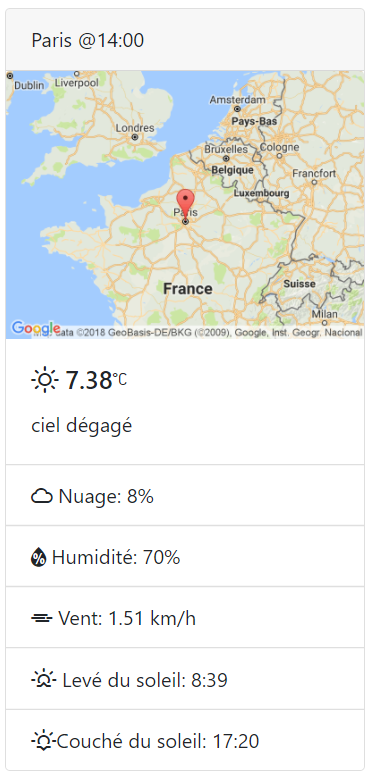
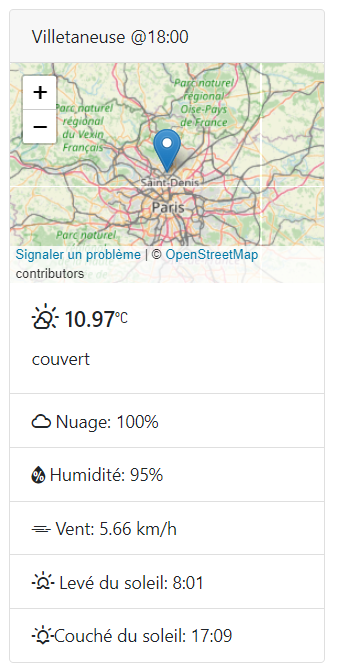
update tp 5 with open street map

diff --git a/tp5/readme.md b/tp5/readme.md
@@ -172,6 +172,68 @@ window.onload = function () {
         // A compléter dans la suite du TP
       },
     },
+    computed: {
+      cityWheaterDate: function () {
+        if (this.cityWeather !== null) {
+          var date = new Date(this.cityWeather.dt * 1000);
+
+          // ici l'operateur ternaire pour tester si les minutes sont < à 10
+          // pour y ajouter un 0
+          // 9 minutes deviendra 09
+          // 11 restera 11
+          var minutes =
+            date.getMinutes() < 10
+              ? "0" + date.getMinutes()
+              : date.getMinutes();
+          return date.getHours() + ":" + minutes;
+        } else {
+          return "";
+        }
+      },
+      cityWheaterSunrise: function () {
+        if (this.cityWeather !== null) {
+          var date = new Date(this.cityWeather.sys.sunrise * 1000);
+          var minutes =
+            date.getMinutes() < 10
+              ? "0" + date.getMinutes()
+              : date.getMinutes();
+          return date.getHours() + ":" + minutes;
+        } else {
+          return "";
+        }
+      },
+      cityWheaterSunset: function () {
+        if (this.cityWeather !== null) {
+          var date = new Date(this.cityWeather.sys.sunset * 1000);
+          var minutes =
+            date.getMinutes() < 10
+              ? "0" + date.getMinutes()
+              : date.getMinutes();
+          return date.getHours() + ":" + minutes;
+        } else {
+          return "";
+        }
+      },
+      // calcul de la zone d'affichage de la carte openstreetmap
+      openStreetMapArea: function () {
+        if (this.cityWeather !== null) {
+          // Définir un facteur d’échelle selon le zoom (plus zoomé → bbox plus petite)
+          const zoom = 8;
+          const delta = 0.05 / Math.pow(2, zoom - 10);
+
+          const bboxEdges = {
+            south: this.cityWeather.coord.lat - delta,
+            north: this.cityWeather.coord.lat + delta,
+            west: this.cityWeather.coord.lon - delta,
+            east: this.cityWeather.coord.lon + delta,
+          };
+
+          return `${bboxEdges.west}%2C${bboxEdges.south}%2C${bboxEdges.east}%2C${bboxEdges.north}`;
+        } else {
+          return "";
+        }
+      },
+    },
   });
 };
 ```
@@ -414,12 +476,17 @@ Carte météo
 
 <div v-if="cityWeather">
   <div class="card" style="width: 18rem;" v-if="cityWeather">
-    <div class="card-header">{{cityWeather.name}}</div>
-    <img
+    <div class="card-header">{{cityWeather.name}} @{{cityWheaterDate}}</div>
+    <iframe
       class="card-img-top"
-      v-bind:src="'url google map'"
       alt="Card image cap"
-    />
+      width="100%"
+      height="200"
+      frameborder="0"
+      scrolling="no"
+      v-bind:src="'url de l iframe Open street map'"
+    >
+    </iframe>
 
     <div class="card-body">
       <h5 class="card-title">
@@ -453,17 +520,17 @@ Carte météo
 </div>
 ```
 
-## 12. Affichage une image Google Map
+## 12. Affichage une iframe Open Street Map
 
-- Afficher une image en utilisant les coordonnées lattitude et longitude renvoyées par OpenWeathermap
+- Afficher une image en utilisant les coordonnées lattitude et longitude renvoyées par OpenWeathermap : https://www.openstreetmap.org/export
 
-  - Pattern de l'URL:
+  - Pattern de l'URL à utiliser dans l'iframe:
 
 ```
-https://maps.googleapis.com/maps/api/staticmap?markers='+LATITTUDE+','+LONGITUDE+'&zoom=5&size=400x300&scale=2&key=AIzaSyAkmvI9DazzG9p77IShsz_Di7-5Qn7zkcg'
+'https://www.openstreetmap.org/export/embed.html?bbox='+openStreetMapArea+'&layer=mapnik&marker='+cityWeather.coord.lat+'%2C'+cityWeather.coord.lon
 ```
 
-- Si l'image ne s'affiche pas, essayez en mettant une autre clé Google (key)
+`openStreetMapArea` est une méthode (dans votre code main.js) qui va calculer la zone sur laquelle OSM va zoomé pour monter la ville demandée.
 
 ## 13. Affichage des icones météo
 
@@ -502,6 +569,11 @@ Pour utiliser les icones, il suffit de connaitre la classe CSS correspondante, e
 ```html
 <i class="wi wi-cloud"></i>
 ```
+
+## 14. Bonus : Ajouter un bouton "Ma position""
+
+- Ajouter un bouton "ma position" qui va demander les coordonnées GPS à l'utilisateur (comme dans le TP4).
+- Afficher la carte météo selon les coordonnées GPS recueillies.
 
 <p align="center">
 --- Fin du TP ---
